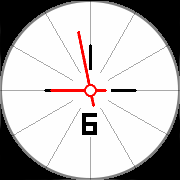
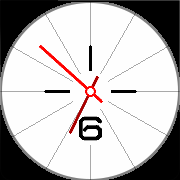
assets update

diff --git a/src/c/simple-enough.c b/src/c/simple-enough.c
@@ -120,15 +120,15 @@ static void canvas_update_proc(Layer *layer, GContext *ctx) {
 
   
   // Draw PDC number 6 at bottom
-  const int top_padding = PBL_IF_RECT_ELSE(35, 40);
+  const int top_padding = 22;
   if (s_number_6_black && s_number_6_white) {
     GSize img_size = gdraw_command_image_get_bounds_size(s_invert_colors ? s_number_6_white : s_number_6_black);
 
     // Draw background for number 6
     graphics_context_set_fill_color(ctx, get_background_color());
-    graphics_fill_rect(ctx, GRect(center.x - (img_size.w - 4) / 2, bounds.size.h - img_size.h - top_padding - 4, img_size.w - 4, img_size.h + 8), 2, GCornersAll);
+    graphics_fill_rect(ctx, GRect(center.x - (img_size.w - 4) / 2, (bounds.size.h / 2) + top_padding - 4, img_size.w - 4, img_size.h + 8), 2, GCornersAll);
     
-    GRect img_rect = GRect(center.x - img_size.w / 2, bounds.size.h - img_size.h - top_padding, img_size.w, img_size.h);
+    GRect img_rect = GRect(center.x - img_size.w / 2, (bounds.size.h / 2) + top_padding, img_size.w, img_size.h);
     gdraw_command_image_draw(ctx, s_invert_colors ? s_number_6_white : s_number_6_black, img_rect.origin);
   }
   
